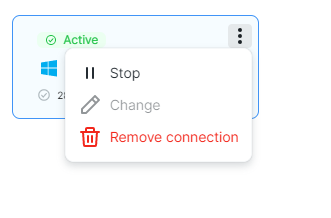
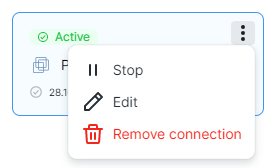
Deployed 829e791 with MkDocs version: 1.4.2

diff --git a/manage-connection/index.html b/manage-connection/index.html
@@ -491,7 +491,7 @@
 <ul>
 <li><strong>Stop</strong> stops Astrokite access to the provided cloud access data. </li>
 <li><strong>Edit</strong> allows you to edit the connection data.</li>
-<li><strong>Delete connection</strong> deletes cloud access data as well as all data collected for the period cloud was connected. The action only applies to data stored in Astrokite.</li>
+<li><strong>Remove connection</strong> deletes cloud access data as well as all data collected for the period cloud was connected. The action only applies to data stored in Astrokite.</li>
 </ul>
 <div class="admonition attention">
 <p class="admonition-title">Attention</p>
